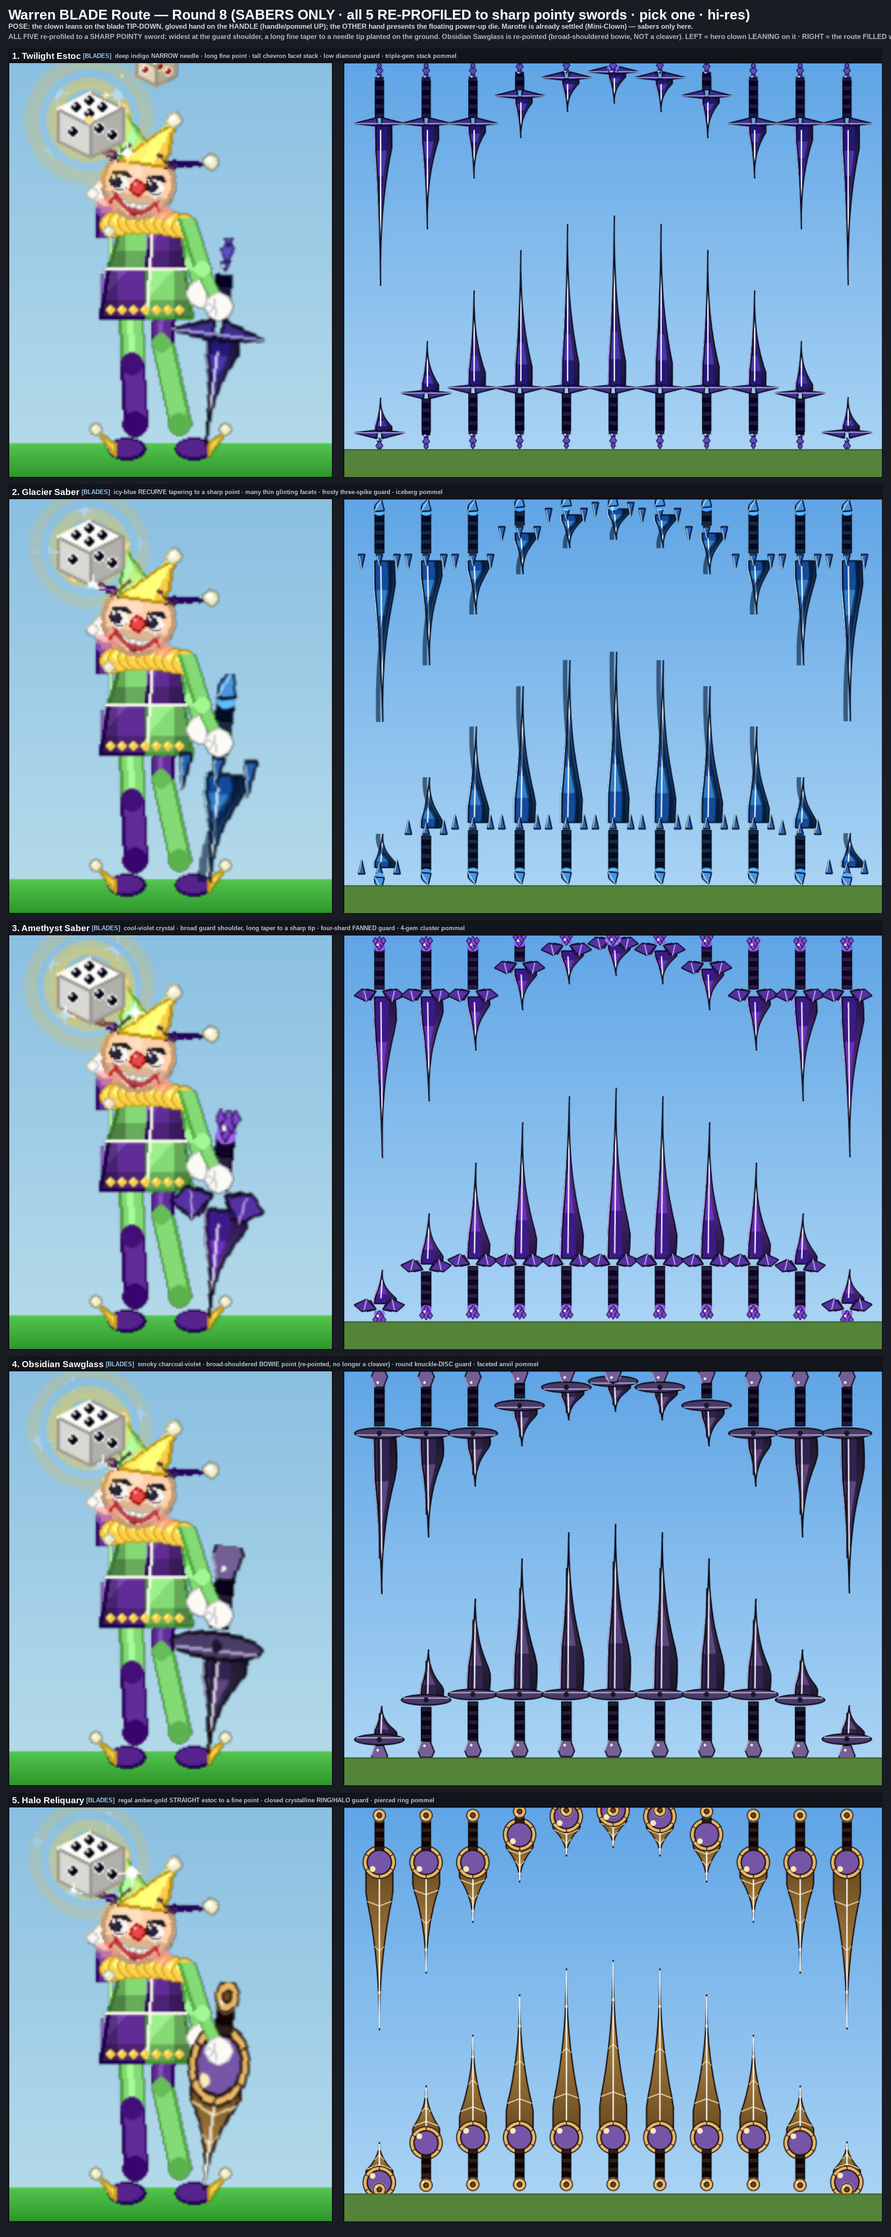
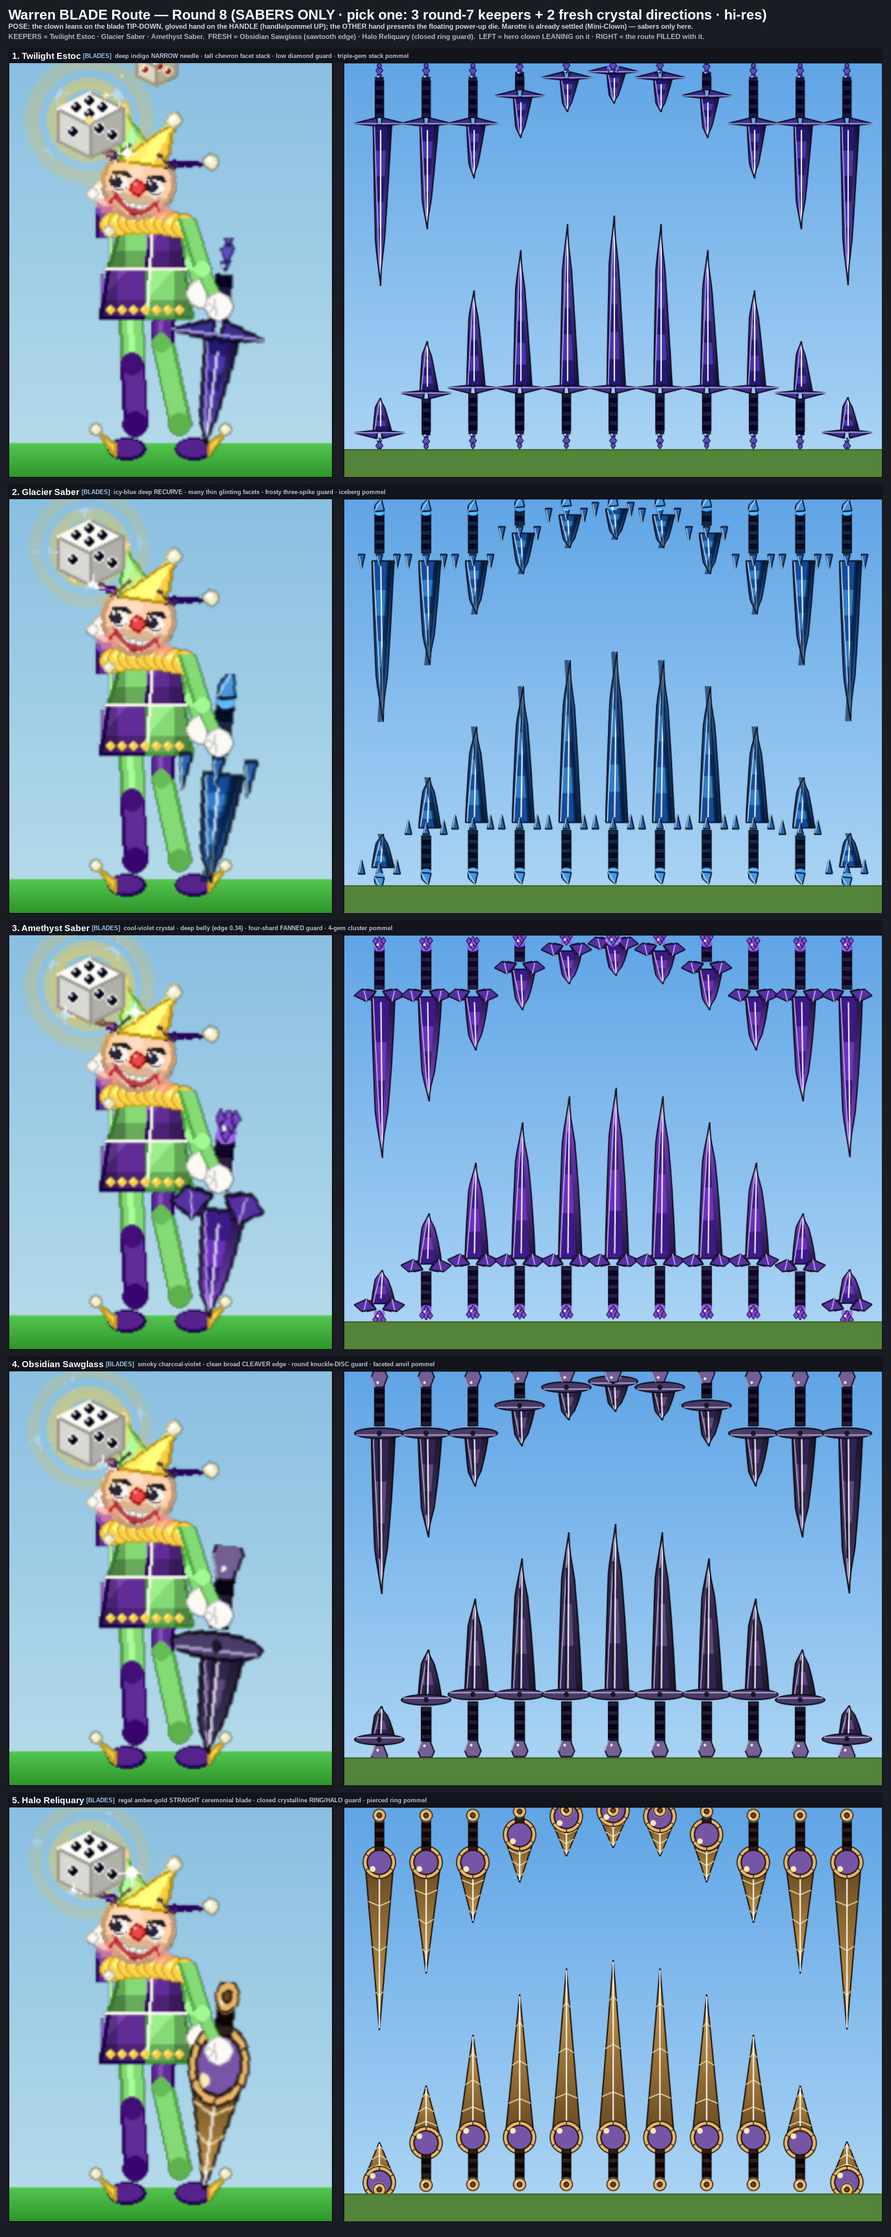
Warren sabers: revert full re-profile, just close the flat tip to a point
The previous round redesigned the whole blade taper to fix the flat tip, but the
original blade look was the one wanted — only its END was flat. Revert the re-profile
(restore the original _curved_body / per-saber profiles and Sawglass) and instead make a
single minimal change: in _curved_body the back spine held a fixed 0.32*hw offset while
the cutting edge only narrowed to ~0.08*hw, so the two sides never met and the blade
ended in a blunt flat edge. Over the last stretch of the blade (t > 0.74) ramp both the
spine offset and the edge width to zero so they converge on the existing tip vertex,
closing that flat end into a sharp point while leaving the rest of the silhouette exactly
as it was. _straight_body already came to a point and is unchanged.

All five sabers keep their original design and now end in a sharp point; lumas 36-104
(<140); pytest green; round_7 still emits.

diff --git a/tools/render_warren_sword.py b/tools/render_warren_sword.py
@@ -400,77 +400,29 @@ def _straight_body(cx, tip_y, base_y, hw, *, taper=0.0):
     return [(cx - bw, base_y), (cx, tip_y), (cx + bw, base_y)], bw
 
 
-def _saber_halfwidth(t, hw, *, edge, point, belly_at, shoulder=0.18):
-    """The shared blade half-width profile for the crystal sabers — a genuine
-    SWORD/ESTOC taper, not a cleaver. `t` runs 0 at the base/guard to 1 at the tip.
-
-    The widest steel sits HIGH near the guard: the width holds at ~full over a
-    short `shoulder` band off the base, then a single smooth concave sweep draws it
-    down to ZERO at the very tip. The remap `s = (t-shoulder)/(1-shoulder)` keeps
-    the taper a long unbroken line and `point` controls how convex that line is —
-    higher `point` makes the upper blade collapse into a finer, longer needle so
-    the last ~30% is an unmistakably sharp point (no stubby nub at the planted
-    ground-end). Any `edge` belly swell is biased LOW (peaking near `belly_at`) and
-    forced to ZERO by mid-blade so it can never re-widen the upper blade and blunt
-    the tip — the cutting edge above the belly is one clean inward sweep to the
-    point. The result reads pointy at both hero and route scale."""
-    # Hold full width over the guard-side shoulder, then one smooth taper to a
-    # zero-width tip so the silhouette converges to a true point (not a flat nub).
-    if t <= shoulder:
-        core = 1.0
-    else:
-        s = (t - shoulder) / max(1e-3, 1.0 - shoulder)
-        core = (1.0 - s) ** point
-    # A guard-biased belly that swells only the lower blade and vanishes by ~0.5,
-    # so the cutting edge above mid-blade is one clean inward sweep to the point.
-    if t < 0.5:
-        bell = math.sin(min(1.0, t / max(0.04, belly_at)) * math.pi * 0.5)
-        bell *= max(0.0, 1.0 - t / 0.5)
-    else:
-        bell = 0.0
-    return hw * core + edge * hw * 0.5 * bell
-
-
-def _curved_body(cx, tip_y, base_y, hw, *, bow=0.30, edge=1.0,
-                 point=1.0, belly_at=0.5, shoulder=0.18):
-    """A single-edged CURVED (saber/falchion) silhouette tapering to a hard tip.
-    `bow` is the sideways lean of the tip. With `point` left at 1.0 this keeps the
-    legacy near-linear taper (used by the cartoon/realistic swords). The crystal
-    sabers pass `point` > 1 so the widest steel sits HIGH near the guard and BOTH
-    edges draw out into a long fine point (see `_saber_halfwidth`); they also bias
-    the belly swell LOW via `belly_at`. Returns (pts, bw).
-
-    In the saber (non-legacy) path the SPINE side converges with the cutting edge:
-    its offset is tied to the same `(1-s)` taper as the edge so the two edges meet
-    at the tip in a true point — the old fixed `bw*0.32` spine offset never tapered
-    and left a flat/blunt planted ground-end, which is exactly what 'sharp & pointy'
-    is fixing."""
+def _curved_body(cx, tip_y, base_y, hw, *, bow=0.30, edge=1.0):
+    """A single-edged CURVED (saber/falchion) silhouette: the back spine bows
+    one way, the cutting edge swells then sweeps to the same hard tip. `bow` is
+    the sideways curve of the tip; `edge` swells the belly. Returns (pts, bw)."""
     span = base_y - tip_y
     bw = hw
     spine, edgep = [], []
     n = 14
-    legacy = point == 1.0 and belly_at == 0.5
+    # The body keeps its original profile, but the back spine used to hold a fixed
+    # offset while the edge only narrowed to ~0.08*hw, so the two sides never met
+    # and the blade ended in a blunt FLAT edge. Over the last stretch (t > TIP_CLOSE)
+    # ramp BOTH sides in to zero so they converge on the tip vertex — closing that
+    # flat end into a sharp point without touching the rest of the silhouette.
+    TIP_CLOSE = 0.74
     for i in range(n + 1):
         t = i / n                       # 0 at base, 1 at tip
         y = base_y - span * t
+        arc = math.sin(t * math.pi)     # 0 at ends, 1 mid
         cxt = cx + bow * hw * (t ** 1.3)   # whole blade leans toward the tip side
-        if legacy:
-            arc = math.sin(t * math.pi)
-            bwt = hw * (1.0 - t * 0.92) + edge * hw * 0.5 * arc * (1 - t * 0.4)
-            spine.append((cxt - bw * 0.32 - bwt * 0.18, y))  # back (spine) side
-            edgep.append((cxt + bwt, y))                     # cutting (belly) side
-        else:
-            bwt = _saber_halfwidth(t, hw, edge=edge, point=point, belly_at=belly_at,
-                                   shoulder=shoulder)
-            # The spine is a narrow back-bevel that tapers on the SAME schedule as
-            # the cutting edge, so both sides collapse to the tip in a fine point.
-            if t <= shoulder:
-                taper = 1.0
-            else:
-                taper = (1.0 - (t - shoulder) / max(1e-3, 1.0 - shoulder)) ** point
-            sp = bw * 0.30 * taper
-            spine.append((cxt - sp, y))                      # back (spine) side
-            edgep.append((cxt + bwt, y))                     # cutting (belly) side
+        bwt = hw * (1.0 - t * 0.92) + edge * hw * 0.5 * arc * (1 - t * 0.4)
+        close = 1.0 if t <= TIP_CLOSE else 1.0 - (t - TIP_CLOSE) / (1.0 - TIP_CLOSE)
+        spine.append((cxt - (bw * 0.32 + bwt * 0.18) * close, y))  # back (spine)
+        edgep.append((cxt + bwt * close, y))                       # cutting (belly)
     tip = (cx + bow * hw, tip_y)
     pts = spine + [tip] + list(reversed(edgep))
     return pts, bw
@@ -1061,8 +1013,7 @@ def sword_11(surf, bw, bh, ss):
 # ─────────────────────────────────────────────────────────────────────────────
 
 def _xtal_facets(surf, cx, tip_y, base_y, hw, cuts, tones, hi, *, lean=0.22, ss=1,
-                 body=None, outline=None, ow=2, point=1.0, belly_at=0.5, edge=0.0,
-                 shoulder=0.18):
+                 body=None, outline=None, ow=2):
     """Stack angular crystal facets up a curved blade — the shared faceting core
     the variants tune (cut count, tones, lateral lean). A bright crystalline ridge
     runs to the apex so the tip reads as a hard lit edge against the gap.
@@ -1086,16 +1037,8 @@ def _xtal_facets(surf, cx, tip_y, base_y, hw, cuts, tones, hi, *, lean=0.22, ss=
         y1 = base_y - span * cuts[i + 1]
         cx0 = cx + lean * hw * (cuts[i] ** 1.3)
         cx1 = cx + lean * hw * (cuts[i + 1] ** 1.3)
-        # Track the sword taper so facets stay inside the long fine point; with the
-        # legacy point==1.0 this reduces to the old near-linear width.
-        if point == 1.0 and belly_at == 0.5 and edge == 0.0:
-            w0 = hw * (1.0 - cuts[i] * 0.9)
-            w1 = hw * (1.0 - cuts[i + 1] * 0.9)
-        else:
-            w0 = _saber_halfwidth(cuts[i], hw, edge=edge, point=point,
-                                  belly_at=belly_at, shoulder=shoulder)
-            w1 = _saber_halfwidth(cuts[i + 1], hw, edge=edge, point=point,
-                                  belly_at=belly_at, shoulder=shoulder)
+        w0 = hw * (1.0 - cuts[i] * 0.9)
+        w1 = hw * (1.0 - cuts[i + 1] * 0.9)
         ow0 = max(0.0, w0 * 0.78 - edge_in)
         ow1 = max(0.0, w1 * 0.78 - edge_in)
         pygame.draw.polygon(surf, _shade_c(tones[i % len(tones)], -24),
@@ -1140,19 +1083,14 @@ def sword_11a(surf, bw, bh, ss):
     tip_y, base_y, gy, gtop, gbot, py = _layout(bh, ss)
     hw = int(_blade_hw(ss) * 1.04)
     ghw = _guard_hw(ss)
-    # Widest right at the guard shoulder, a soft LOW belly that dies by mid-blade,
-    # then a long convex sweep collapsing both edges to a fine point over the upper
-    # ~40%: a classic broad-shouldered saber that tapers to a genuinely sharp tip,
-    # not a low-belly blade with a stubby ground-end.
-    A_PT, A_BAT, A_EDGE, A_SH = 2.2, 0.14, 0.22, 0.16
-    body, bwid = _curved_body(cx, tip_y, base_y, hw, bow=0.20, edge=A_EDGE,
-                              point=A_PT, belly_at=A_BAT, shoulder=A_SH)
+    # A gentler belly (edge 0.26) keeps the cutting edge a single smooth arc rather
+    # than a bulging belly that reads wavy beside the internal facets at route scale.
+    body, bwid = _curved_body(cx, tip_y, base_y, hw, bow=0.20, edge=0.26)
     ow = max(2, int(2.0 * ss))
     _vgrad_poly(surf, body, A_A, A_CORE, outline=A_DK, ow=ow)
     _xtal_facets(surf, cx, tip_y, base_y, hw, [0.0, 0.28, 0.52, 0.78, 1.0],
                  [A_B, A_A, A_B, A_A], A_HI, lean=0.20, ss=ss,
-                 body=body, outline=A_DK, ow=ow,
-                 point=A_PT, belly_at=A_BAT, edge=A_EDGE, shoulder=A_SH)
+                 body=body, outline=A_DK, ow=ow)
     # Four-shard FANNED guard (more angular spread than the round-6 two-shard).
     for sgn in (-1, 1):
         for k, sc in ((0.55, 0.7), (1.0, 1.0)):
@@ -1218,13 +1156,9 @@ def sword_11c(surf, bw, bh, ss):
     tip_y, base_y, gy, gtop, gbot, py = _layout(bh, ss)
     hw = int(_blade_hw(ss) * 0.98)
     ghw = _guard_hw(ss)
-    # A recurve sweep (bow 0.24) but now on the SABER taper: widest at the guard
-    # shoulder, a light low belly, then a long convex collapse to a fine point — the
-    # icy blade tapers to a real sharp tip instead of carrying its width low into a
-    # stubby recurved nub. The bow leans the whole sweep without re-widening the tip.
-    C_PT, C_BAT, C_EDGE, C_SH = 2.0, 0.16, 0.18, 0.16
-    body, bwid = _curved_body(cx, tip_y, base_y, hw, bow=0.24, edge=C_EDGE,
-                              point=C_PT, belly_at=C_BAT, shoulder=C_SH)
+    # A calmer recurve (bow 0.26) so the long edge stays one smooth sweep; the high
+    # bow plus a thin facet stack used to step the silhouette into a wavy edge.
+    body, bwid = _curved_body(cx, tip_y, base_y, hw, bow=0.26, edge=0.14)
     ow = max(2, int(2.0 * ss))
     # Body keyed off the MID tone so the icy-blue fill clears the 140 luma gate;
     # the bright C_A / white ridge stays on the facet edges only.
@@ -1234,8 +1168,7 @@ def sword_11c(surf, bw, bh, ss):
     _xtal_facets(surf, cx, tip_y, base_y, hw,
                  [0.0, 0.18, 0.34, 0.50, 0.66, 0.82, 1.0],
                  [C_B, C_A], C_HI, lean=0.24, ss=ss,
-                 body=body, outline=C_DK, ow=ow,
-                 point=C_PT, belly_at=C_BAT, edge=C_EDGE, shoulder=C_SH)
+                 body=body, outline=C_DK, ow=ow)
     # Bias the BELLY-side internal shading one step deeper so the recurve registers
     # as a curve at route scale: a translucent dark strip hugging the cutting-edge
     # side, INSET well inside the silhouette (margin keyed to blade width) so it
@@ -1248,9 +1181,9 @@ def sword_11c(surf, bw, bh, ss):
     for i in range(n + 1):
         t = i / n
         y = base_y - span_c * t
-        cxt = cx + 0.24 * hw * (t ** 1.3)
-        bwt = _saber_halfwidth(t, hw, edge=C_EDGE, point=C_PT, belly_at=C_BAT,
-                               shoulder=C_SH)
+        arc = math.sin(t * math.pi)
+        cxt = cx + 0.26 * hw * (t ** 1.3)
+        bwt = hw * (1.0 - t * 0.92) + 0.14 * hw * 0.5 * arc * (1 - t * 0.4)
         belly_x = cxt + bwt - margin
         inner.append((belly_x - hw * 0.30, y))
         outer_in.append((belly_x, y))
@@ -1326,19 +1259,13 @@ def sword_11e(surf, bw, bh, ss):
     tip_y, base_y, gy, gtop, gbot, py = _layout(bh, ss)
     hw = int(_blade_hw(ss) * 0.82)        # narrow needle
     ghw = _guard_hw(ss)
-    # The estoc reference shape: a short guard-shoulder at full (already-narrow)
-    # width, then a long single convex taper — both edges converge to a true needle
-    # over the upper ~45%, the finest sharp point of the set.
-    E_PT, E_BAT, E_EDGE, E_SH = 2.4, 0.14, 0.04, 0.14
-    body, bwid = _curved_body(cx, tip_y, base_y, hw, bow=0.10, edge=E_EDGE,
-                              point=E_PT, belly_at=E_BAT, shoulder=E_SH)
+    body, bwid = _curved_body(cx, tip_y, base_y, hw, bow=0.10, edge=0.06)
     ow = max(2, int(2.0 * ss))
     _vgrad_poly(surf, body, E_A, E_CORE, outline=E_DK, ow=ow)
     _xtal_facets(surf, cx, tip_y, base_y, hw,
                  [0.0, 0.16, 0.32, 0.48, 0.64, 0.80, 1.0],
                  [E_B, E_A], E_HI, lean=0.10, ss=ss,
-                 body=body, outline=E_DK, ow=ow,
-                 point=E_PT, belly_at=E_BAT, edge=E_EDGE, shoulder=E_SH)
+                 body=body, outline=E_DK, ow=ow)
     # A low diamond guard (two flat shards meeting in a point each side).
     for sgn in (-1, 1):
         shard = [(cx + sgn * int(3 * ss), gy - int(2 * ss)),
@@ -1519,15 +1446,13 @@ def sword_11g(surf, bw, bh, ss):
 #  wing, collar nor geode. 2-3 bold beats each, no fizz at route scale.
 # ─────────────────────────────────────────────────────────────────────────────
 
-# ---- 11h. Obsidian Sawglass (smoky charcoal-violet, broad-shouldered bowie) ---
-# A broad-shouldered crystal BOWIE/SEAX point — the widest steel sits right at the
-# guard shoulder (the broad chest that gives the variety), then a long convex
-# clip-point sweep collapses both edges to one genuinely sharp apex. This replaces
-# the old flat-bottomed cleaver: the planted ground-end is now a real point, not a
-# blunt chopping edge, while the broad shoulders keep it the beefiest of the set.
-# The guard is a round knuckle-DISC plate (a flat pierced crystal disc — a guard
-# form distinct from the shard-fans / spikes / wings / rings), the pommel a heavy
-# faceted ANVIL wedge. Smoky charcoal-violet keeps it the darkest, moodiest member.
+# ---- 11h. Obsidian Cleaver (smoky charcoal-violet, clean broad cleaver edge) --
+# A single-edge crystal CLEAVER with a clean broad swept cutting edge sweeping to
+# one hard apex (de-serrated: the old sawtooth read as a broken edge at route
+# scale; a sharp cleaver keeps the identity without the notches). The guard is a
+# round knuckle-DISC plate (a flat pierced crystal disc — a guard form distinct
+# from the shard-fans / spikes / wings / rings), the pommel a heavy faceted ANVIL
+# wedge. Smoky charcoal-violet keeps it the darkest, moodiest of the set.
 H_CORE, H_A, H_B, H_HI, H_DK = (28, 22, 40), (118, 96, 150), (74, 60, 104), (198, 184, 224), (14, 10, 22)
 
 
@@ -1537,22 +1462,18 @@ def sword_11h(surf, bw, bh, ss):
     hw = int(_blade_hw(ss) * 1.06)
     ghw = _guard_hw(ss)
     span = base_y - tip_y
-    # A broad-shouldered bowie point: a LONGER guard-shoulder holds the wide chest,
-    # then a long convex clip-point sweep (high `point`) draws both edges to one
-    # sharp apex. A light low belly fills out the shoulder; it dies by mid-blade so
-    # the upper edge is a single clean inward sweep to the point.
-    H_PT, H_BAT, H_EDGE, H_SH = 2.0, 0.16, 0.24, 0.24
-    body, bwid = _curved_body(cx, tip_y, base_y, hw, bow=0.16, edge=H_EDGE,
-                              point=H_PT, belly_at=H_BAT, shoulder=H_SH)
+    # A broad single-edge cleaver: a calm belly (edge 0.22) sweeping to one hard
+    # apex so the outer silhouette is a SINGLE smooth sharp edge, not a row of
+    # teeth that rasterised into notches at route scale.
+    body, bwid = _curved_body(cx, tip_y, base_y, hw, bow=0.16, edge=0.22)
     ow = max(2, int(2.2 * ss))
     _vgrad_poly(surf, body, H_B, H_CORE, outline=H_DK, ow=ow)
     # Internal-only crystal facets (outer vertices inset inside the body boundary)
-    # so the bowie glints like cut glass without stepping the sharp edge; the body
-    # outline is re-stroked LAST to keep one clean break to the fine tip.
+    # so the cleaver glints like cut glass without stepping the sharp edge; the
+    # body outline is re-stroked LAST to keep one clean break to the fine tip.
     _xtal_facets(surf, cx, tip_y, base_y, hw, [0.0, 0.30, 0.56, 0.80, 1.0],
                  [H_B, H_A, H_B, H_A], H_HI, lean=0.16, ss=ss,
-                 body=body, outline=H_DK, ow=ow,
-                 point=H_PT, belly_at=H_BAT, edge=H_EDGE, shoulder=H_SH)
+                 body=body, outline=H_DK, ow=ow)
     # A dark fuller groove + a bright lit ridge to the apex (the 2 internal beats);
     # the ridge keeps the tip a hard lit edge against the gap (GATE 1).
     pygame.draw.line(surf, H_CORE, (cx - hw * 0.06, base_y - int(8 * ss)),
@@ -1606,29 +1527,14 @@ def sword_11i(surf, bw, bh, ss):
     tip_y, base_y, gy, gtop, gbot, py = _layout(bh, ss)
     hw = int(_blade_hw(ss) * 0.9)         # slim straight ceremonial blade
     ghw = _guard_hw(ss)
-    span = base_y - tip_y
-    # A SYMMETRIC straight estoc: no bow, no belly, full width held over a short
-    # guard-shoulder then both edges sweeping concavely in to one fine apex (the
-    # `_saber_halfwidth` taper with edge=0). The old near-parallel triangle ended
-    # in a wedge; this draws the upper ~40% out into a genuinely sharp ceremonial
-    # point so the planted ground-end reads pointy, not flat.
-    I_PT, I_SH = 2.2, 0.16
-    left, right = [], []
-    n = 14
-    for i in range(n + 1):
-        t = i / n
-        y = base_y - span * t
-        w = _saber_halfwidth(t, hw, edge=0.0, point=I_PT, belly_at=0.5, shoulder=I_SH)
-        left.append((cx - w, y))
-        right.append((cx + w, y))
-    body = left + [(cx, tip_y)] + list(reversed(right))
+    body, bwid = _straight_body(cx, tip_y, base_y, hw, taper=0.02)
     _vgrad_poly(surf, body, I_B, I_CORE, outline=I_DK, ow=max(2, int(2.0 * ss)))
     # A bold symmetric chevron facet stack down the centreline to a hot apex ridge
-    # (the straight-blade read, no lateral lean) — 2-3 bold beats, tracking the
-    # estoc taper so the chevrons stay inside the converging point.
+    # (the straight-blade read, no lateral lean) — 2-3 bold beats.
+    span = base_y - tip_y
     for t in (0.20, 0.48, 0.76):
         y = base_y - span * t
-        w = _saber_halfwidth(t, hw, edge=0.0, point=I_PT, belly_at=0.5, shoulder=I_SH)
+        w = hw * (1.0 - t * 0.92)
         pygame.draw.line(surf, I_HI, (cx - w, y), (cx, y - int(7 * ss)),
                          max(1, int(1.6 * ss)))
         pygame.draw.line(surf, I_HI, (cx + w, y), (cx, y - int(7 * ss)),
@@ -2585,19 +2491,19 @@ VERSIONS = [
 # "blade" so the clown leans on it TIP-DOWN with the gloved hand on the HANDLE.
 SABER_VERSIONS = [
     ("Twilight Estoc", "BLADES",
-     "deep indigo NARROW needle · long fine point · tall chevron facet stack · low diamond guard · triple-gem stack pommel",
+     "deep indigo NARROW needle · tall chevron facet stack · low diamond guard · triple-gem stack pommel",
      sword_11e, "blade"),
     ("Glacier Saber", "BLADES",
-     "icy-blue RECURVE tapering to a sharp point · many thin glinting facets · frosty three-spike guard · iceberg pommel",
+     "icy-blue deep RECURVE · many thin glinting facets · frosty three-spike guard · iceberg pommel",
      sword_11c, "blade"),
     ("Amethyst Saber", "BLADES",
-     "cool-violet crystal · broad guard shoulder, long taper to a sharp tip · four-shard FANNED guard · 4-gem cluster pommel",
+     "cool-violet crystal · deep belly (edge 0.34) · four-shard FANNED guard · 4-gem cluster pommel",
      sword_11a, "blade"),
     ("Obsidian Sawglass", "BLADES",
-     "smoky charcoal-violet · broad-shouldered BOWIE point (re-pointed, no longer a cleaver) · round knuckle-DISC guard · faceted anvil pommel",
+     "smoky charcoal-violet · clean broad CLEAVER edge · round knuckle-DISC guard · faceted anvil pommel",
      sword_11h, "blade"),
     ("Halo Reliquary", "BLADES",
-     "regal amber-gold STRAIGHT estoc to a fine point · closed crystalline RING/HALO guard · pierced ring pommel",
+     "regal amber-gold STRAIGHT ceremonial blade · closed crystalline RING/HALO guard · pierced ring pommel",
      sword_11i, "blade"),
 ]
 
@@ -2960,14 +2866,13 @@ _ROUND7_HEADERS = [
 ]
 
 _ROUND8_HEADERS = [
-    ("Warren BLADE Route — Round 8 (SABERS ONLY · all 5 RE-PROFILED to sharp pointy swords · pick one · hi-res)",
+    ("Warren BLADE Route — Round 8 (SABERS ONLY · pick one: 3 round-7 keepers + 2 fresh crystal directions · hi-res)",
      (255, 255, 255)),
     ("POSE: the clown leans on the blade TIP-DOWN, gloved hand on the HANDLE (handle/pommel UP); "
      "the OTHER hand presents the floating power-up die. Marotte is already settled (Mini-Clown) — sabers only here.",
      (205, 210, 220)),
-    ("ALL FIVE re-profiled to a SHARP POINTY sword: widest at the guard shoulder, a long fine taper to a needle tip "
-     "planted on the ground. Obsidian Sawglass is re-pointed (broad-shouldered bowie, NOT a cleaver). "
-     "LEFT = hero clown LEANING on it · RIGHT = the route FILLED with it.",
+    ("KEEPERS = Twilight Estoc · Glacier Saber · Amethyst Saber.  FRESH = Obsidian Sawglass (sawtooth edge) · "
+     "Halo Reliquary (closed ring guard).  LEFT = hero clown LEANING on it · RIGHT = the route FILLED with it.",
      (170, 178, 190)),
 ]
 
